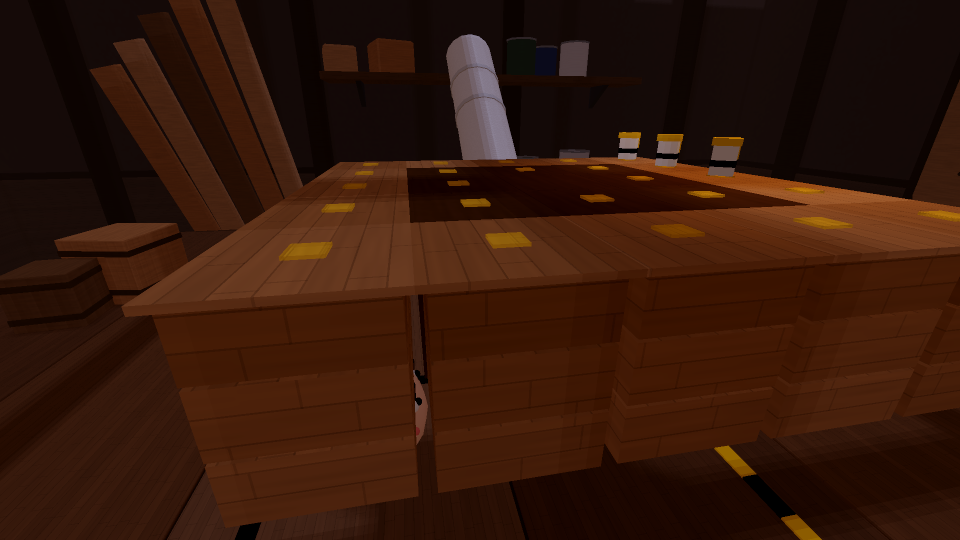
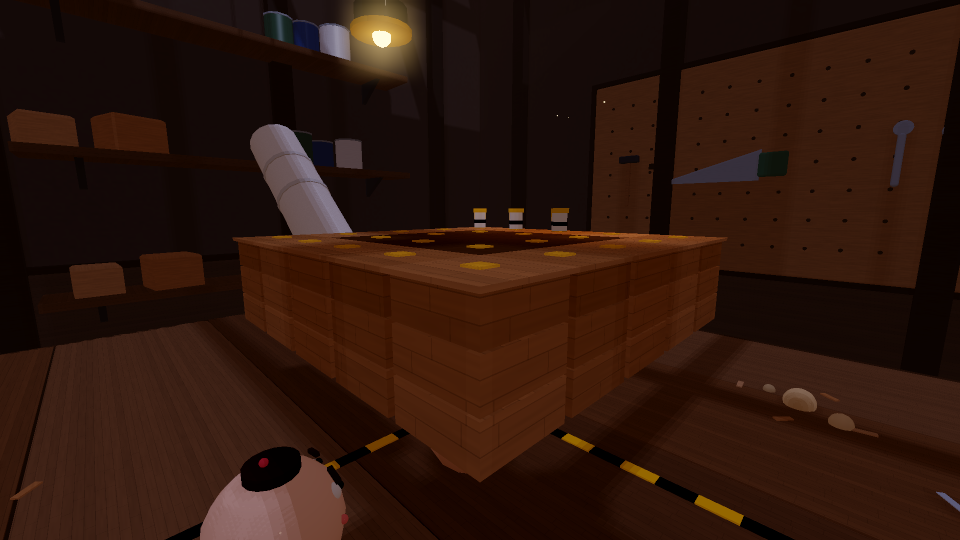
fix(giant-jenga): route intro camera around tower corner (m5-24 QA B1)
Add a waypoint outside the tower's +X/+Z corner between intro points 2 and 3 so the path no longer cuts through the front row blocks. Turn the m5-24-qa KNOWN_INTRO_BUG entry into a normal assertion and refresh after-intro renders.

diff --git a/docs/developer/m5-24-fix-jenga-cam.md b/docs/developer/m5-24-fix-jenga-cam.md
@@ -1,0 +1,17 @@
+# m5-24 B1 수정 — giant-jenga 소개 카메라 (인계 메모)
+
+## 2026-10-14 — 완료, main 병합 대기
+- 브랜치: `m5-24-fix-jenga-cam` (origin/main 6b12976 기준). main에는 아직 병합 안 함(메인 세션이 함).
+- 원인: 경유점 ②`(-62,-30,30)` → ③`(39,6,15)` 직선이 탑 +Z 앞줄(j = 2) 블록 속을 지났어요(QA B1).
+- 바꾼 것
+  - `src/shared/maps/GiantJengaArt.luau` `Art.introCamera`: ②와 ③ 사이에 탑 +X/+Z 모서리 바깥 경유점
+    `{ pos = (edge+14, 4, edge+14) = (39,4,39), lookAt = (edge*0.3, -3, edge*0.3) }`을 넣었어요(점 4 → 5개).
+    ②→새 점 구간은 z ≥ 30(탑 앞면 z 25 바깥), 새 점→③ 구간은 x = 39(탑 옆면 x 25 바깥). 판정 파츠는 그대로.
+    새 컷은 탑 모서리를 살짝 위에서 비스듬히 봐서 블록 옆면과 윗면 노란 표시가 같이 보여요.
+  - `tests/m5-24-qa.spec.luau`: `KNOWN_INTRO_BUG`를 빈 표로 — 이제 젠가도 "경로가 불투명 파츠(판정+장식)를 지나지 않음"을 정상 단언해요.
+  - `docs/renders/giant-jenga/after-intro-01~05.png` 갱신(05 새로 생김).
+- 렌더 비평 1회: 첫 시도(y -4, 수평 시선)는 탑 윗면이 안 보여 높이를 4로 올리고 시선을 아래로.
+- 검증 5단계 모두 통과(1842 passed, 0 failed).
+- Studio 확인: 젠가 맵을 강제 플랜(`Config.DEBUG.forceMapPlan`)으로 띄워 소개를 봐요. 두 번째 컷(작업대 높이)에서
+  탑 모서리 바깥을 돌아 세 번째 컷(옆 클로즈업)으로 갈 때 화면이 나무 블록 안으로 차지 않는지. 확인 뒤 설정을 되돌려요.
+- 남은 것: 없음.
